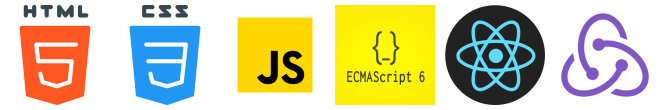
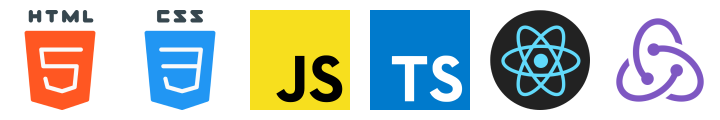
Updated

diff --git a/index.html b/index.html
@@ -51,6 +51,13 @@
           </div>
           <div>는 개발자</div>
           <div>안녕하세요 이은기입니다</div>
+          <a
+            class="resume"
+            href="https://adorable-clementine-30b.notion.site/32a99a2705d64f6299ac94fccc7e151e"
+            target="_blank"
+            rel="noopener noreferrer"
+            ><i class="fas fa-sticky-note"></i> 노션이력서</a
+          >
         </div>
       </header>
       <nav class="navbar">
@@ -105,15 +112,12 @@
               <div class="javascript"></div>
               <p>
                 Javascript <br />
-                (Vanilla)
+                (es6)
               </p>
             </div>
             <div>
-              <div class="es6"></div>
-              <p>
-                Javascript <br />
-                (es6)
-              </p>
+              <div class="typescript"></div>
+              <p>Typescript</p>
             </div>
             <div>
               <div class="react"></div>
@@ -135,6 +139,13 @@
               <p>Express</p>
             </div>
             <div>
+              <div class="mongodb"></div>
+              <p>MongoDB</p>
+            </div>
+          </div>
+          <div class="skills">Data</div>
+          <div class="skills_list">
+            <div>
               <div class="python"></div>
               <p>Python</p>
             </div>
@@ -145,25 +156,43 @@
           <div class="work__categories">
             <button class="category__btn selected" data-filter="*">
               All
-              <span class="category__count">7</span>
-            </button>
-            <button class="category__btn" data-filter="js">
-              HTML/CSS/JS<span class="category__count">2</span>
+              <span class="category__count">3</span>
             </button>
             <button class="category__btn" data-filter="react">
-              React<span class="category__count">4</span>
+              React<span class="category__count">2</span>
             </button>
-            <button class="category__btn" data-filter="python">
-              Python<span class="category__count">1</span>
+            <button class="category__btn" data-filter="js">
+              HTML/CSS/JS<span class="category__count">1</span>
             </button>
           </div>
           <div class="work__projects">
-            <a
-              href="https://github.com/CraDeed/guitar-learn"
-              class="project"
-              target="_blank"
-              data-type="react"
-            >
+            <div class="project" data-type="js">
+              <img
+                src="image/projects/portfolio.png"
+                alt="megabox"
+                class="project__img"
+              />
+              <div class="project__description">
+                <h3>Portfolio</h3>
+                <span>포트롤리오 용도로 제작한 웹사이트</span>
+                <div>
+                  <a
+                    href="https://github.com/CraDeed/cradeed.github.io"
+                    target="_blank"
+                    rel="noopener noreferrer"
+                    >Github</a
+                  >
+                  <a
+                    href="https://adorable-clementine-30b.notion.site/Cradeed-s-Homepage-4a6eae7fba0045529f284763d207978e"
+                    target="_blank"
+                    rel="noopener noreferrer"
+                    >description</a
+                  >
+                </div>
+              </div>
+            </div>
+
+            <div class="project" data-type="react">
               <img
                 src="image/projects/new_guitarlearn.png"
                 alt="new_guitarlearn"
@@ -175,36 +204,24 @@
                   >유튜브 기타 강좌 영상 크롤링하고 보여주는 사이트 With MERN,
                   Python
                 </span>
+                <div>
+                  <a
+                    href="https://guitar-learn.herokuapp.com/"
+                    target="_blank"
+                    rel="noopener noreferrer"
+                    >Website</a
+                  >
+                  <a
+                    href="https://adorable-clementine-30b.notion.site/Guitar-Learn-Project-d1776e5ab90046a994062175634ed2f0"
+                    target="_blank"
+                    rel="noopener noreferrer"
+                    >description</a
+                  >
+                </div>
               </div>
-            </a>
-            <a href="#" class="project" target="_blank" data-type="js">
-              <img
-                src="image/projects/responsive_web.png"
-                alt="responsive"
-                class="project__img"
-              />
-              <div class="project__description">
-                <h3>Responsive Web</h3>
-                <span>웹 표준을 따른 반응형 사이트 제작 with HTML/CSS/JS </span>
-              </div>
-            </a>
-            <a href="#" class="project" target="_blank" data-type="js">
-              <img
-                src="image/projects/megabox.png"
-                alt="megabox"
-                class="project__img"
-              />
-              <div class="project__description">
-                <h3>Megabox</h3>
-                <span>스크립트를 활용한 메가박스 사이트 with HTML/CSS/JS </span>
-              </div>
-            </a>
-            <a
-              href="https://github.com/CraDeed/bolier-Shopping"
-              class="project"
-              target="_blank"
-              data-type="react"
-            >
+            </div>
+
+            <div class="project" data-type="react">
               <img
                 src="image/projects/TravelShop.png"
                 alt="travelshop"
@@ -212,60 +229,17 @@
               />
               <div class="project__description">
                 <h3>Travel Shopping Mall</h3>
-                <span>여행지 쇼핑몰 제작 With React, Node.js </span>
+                <span>여행지 쇼핑몰 제작 With MERN </span>
+                <div>
+                  <a
+                    href="https://github.com/CraDeed/bolier-Shopping"
+                    target="_blank"
+                    rel="noopener noreferrer"
+                    >Github</a
+                  >
+                </div>
               </div>
-            </a>
-            <a
-              href="https://github.com/CraDeed/GuitarLearn-Django"
-              class="project"
-              target="_blank"
-              data-type="python"
-            >
-              <img
-                src="image/projects/guitarlearn.png"
-                alt="guitarlearn"
-                class="project__img"
-              />
-              <div class="project__description">
-                <h3>Guitar Learn</h3>
-                <span
-                  >유튜브 기타 레슨 영상을 크롤링하여 레슨 영상 시청하는 사이트
-                  With Python,Django
-                </span>
-              </div>
-            </a>
-            <a
-              href="https://github.com/CraDeed/Django-instagram"
-              class="project"
-              target="_blank"
-              data-type="react"
-            >
-              <img
-                src="image/projects/insta.png"
-                alt="insta_clone"
-                class="project__img"
-              />
-              <div class="project__description">
-                <h3>Insta Clone</h3>
-                <span>인스타 클론코딩 With React,Django </span>
-              </div>
-            </a>
-            <a
-              href="https://github.com/CraDeed/blog"
-              class="project"
-              target="_blank"
-              data-type="react"
-            >
-              <img
-                src="image/projects/blog.png"
-                alt="blog"
-                class="project__img"
-              />
-              <div class="project__description">
-                <h3>Blog</h3>
-                <span>블로그 사이트 With React </span>
-              </div>
-            </a>
+            </div>
           </div>
         </div>
         <div class="contact" data-tab-content>
@@ -322,9 +296,6 @@
       <footer class="footer">
         <div>&copy; 2021 CraDeed</div>
       </footer>
-      <!-- <button class="arrow_up">
-                <i class="far fa-arrow-alt-circle-up"></i>
-            </button> -->
     </div>
     <script src="main.js"></script>
   </body>

diff --git a/style.css b/style.css
@@ -34,6 +34,7 @@ li {
 
 a {
   text-decoration: none;
+  color: #fff;
 }
 
 button {
@@ -53,13 +54,14 @@ button {
 }
 
 .home {
+  position: relative;
   background-size: cover;
   background-image: linear-gradient(
       -45deg,
       rgba(246, 255, 0, 0.8),
       rgba(255, 0, 161, 0.8)
     ),
-    url('image/me/header.jpg');
+    url('image/me/header2.jpg');
 
   /* background-image: url(image/home_backgroud.jpg); */
 }
@@ -71,8 +73,18 @@ button {
   text-align: center;
 }
 
+.home_introduce a {
+  text-decoration: underline;
+}
+
 .home_introduce > div:nth-of-type(2) {
   display: inline-block;
+}
+
+.resume {
+  position: absolute;
+  right: 20px;
+  bottom: 0;
 }
 
 .introduce_job {
@@ -191,38 +203,38 @@ button {
 }
 
 .html5 {
-  width: 72px;
+  width: 100px;
   height: 100px;
-  background: url('image/skills/frontend.png') no-repeat -19px -2px;
+  background: url('image/skills/frontend.png') no-repeat -10px -10px;
 }
 
 .css {
-  background: url('image/skills/frontend.png') no-repeat -129px -5px;
-  width: 72px;
+  background: url('image/skills/frontend.png') no-repeat -130px -10px;
+  width: 100px;
   height: 100px;
 }
 
 .javascript {
-  background: url('image/skills/frontend.png') no-repeat -237px -17px;
-  width: 76px;
+  background: url('image/skills/frontend.png') no-repeat -250px -10px;
+  width: 100px;
   height: 100px;
 }
 
-.es6 {
-  background: url('image/skills/frontend.png') no-repeat -335px -5px;
+.typescript {
+  background: url('image/skills/frontend.png') no-repeat -370px -10px;
   width: 100px;
   height: 100px;
 }
 
 .react {
-  background: url('image/skills/frontend.png') no-repeat -445px -5px;
+  background: url('image/skills/frontend.png') no-repeat -490px -10px;
   width: 100px;
   height: 100px;
 }
 
 .redux {
-  background: url('image/skills/frontend.png') no-repeat -561px -13px;
-  width: 88px;
+  background: url('image/skills/frontend.png') no-repeat -610px -10px;
+  width: 100px;
   height: 100px;
 }
 
@@ -238,8 +250,14 @@ button {
   height: 100px;
 }
 
-.python {
+.mongodb {
   background: url('image/skills/backend.png') no-repeat -250px -10px;
+  width: 100px;
+  height: 100px;
+}
+
+.python {
+  background: url('image/skills/backend.png') no-repeat -370px -10px;
   width: 100px;
   height: 100px;
 }
@@ -312,11 +330,12 @@ button {
   display: flex;
   justify-content: center;
   align-items: center;
-  width: 450px;
-  height: 400px;
+  width: 480px;
+  height: 270px;
   margin: 15px 25px;
   background: #eeeeee;
   color: white;
+  border: 1px solid rgba(0, 0, 0, 0.1);
 }
 
 .project.invisible {
@@ -351,6 +370,19 @@ button {
 
 .project__description h3 {
   color: orange;
+}
+
+.project__description span {
+  margin-bottom: 1rem;
+}
+
+.project__description div {
+  display: block;
+}
+
+.project__description a {
+  display: inline-block;
+  text-decoration: underline;
 }
 
 .contact {
@@ -400,7 +432,7 @@ button {
 .footer {
   display: block;
   color: white;
-  font-size: 4rem;
+  font-size: 1.5rem;
   padding: 2rem;
   text-align: center;
   background-color: violet;
